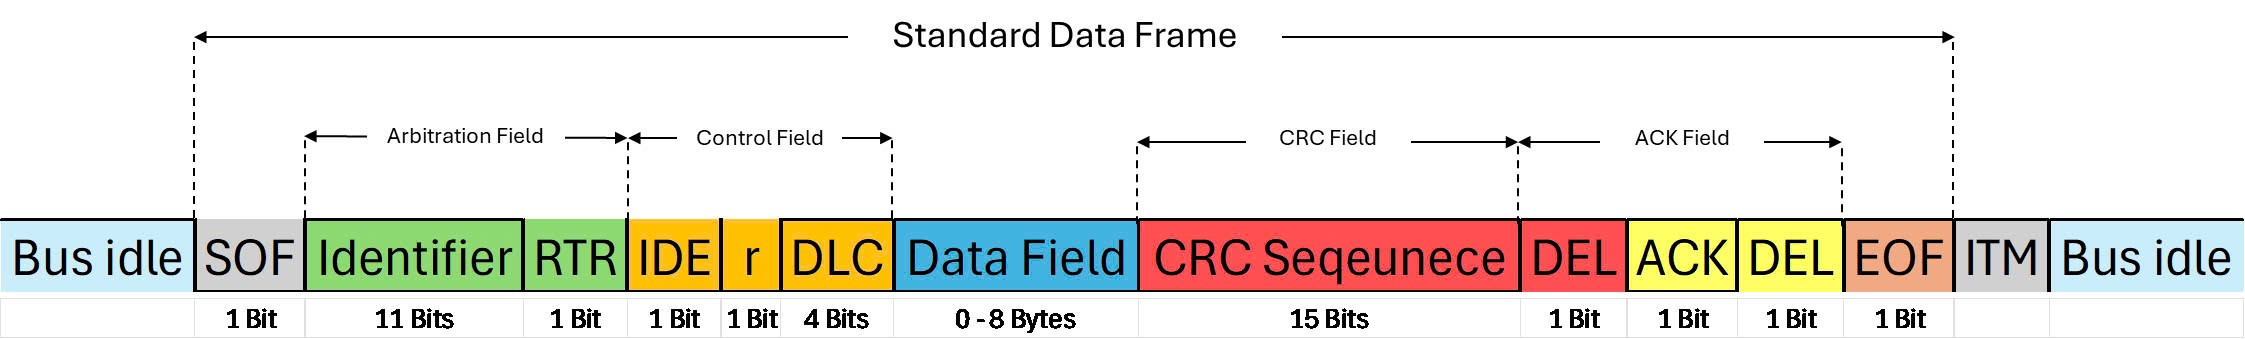
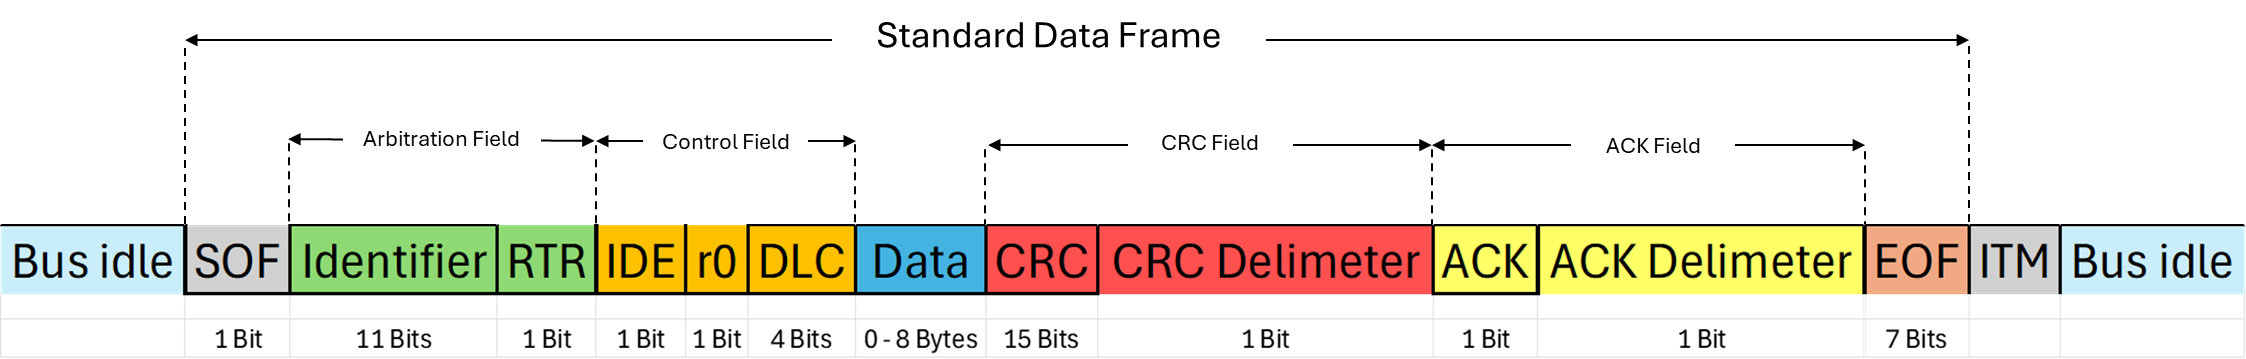
Update content Data Frame.

diff --git a/README.md b/README.md
@@ -307,7 +307,7 @@ CAN bus thường được xoắn 2 dây vào nhau để triệt tiêu nhiễu.
 
 Bus CAN định nghĩa hai trạng thái điện áp là: Dominant và Recessive. Tương đương với bit 0 và 1 của các giao thức khác. 
 
-Hai trạng thái này sẽ được xử lý bởi Transceiver của Node. 
+Hai trạng thái này sẽ được xử lý bởi Transceiver. 
 
 Theo tốc độ truyền nhận CAN, ta chia làm hai loại: CAN low speed và CAN high speed. Tương ứng với các giá trị điện áp khác nhau.
 
@@ -411,23 +411,27 @@ Có hai phiên bản Data Frame: Khung tiêu chuẩn (CAN 2.0A), khung mở rộ
 
  - **IDE - Identifier Extension**: Phân biệt khung tiêu chuẩn (=Dominant) và khung mở rộng (=Recessive).
 
- - **r**: Mặc định là Recessive, bit này không quan trọng.
+ - **r0**: Mặc định là Dominant, hiện tại không có chức năng cụ thể, không quan trọng.
 
  - **DLC - Data Length Code**: Giá trị (0 - 8 theo Binary) ứng với số byte dữ liệu.
 
  - **Data**: Dữ liệu.
 
- - **CRC Sequenece - Cyclic Redundancy Check**: 
+ - **CRC - Cyclic Redundancy Check**: Kiểm tra lỗi thông điệp.
 
- - **DEL - CRC Delimiter**: Luôn là Recessive.
+ - **DEL - CRC Delimiter**: Luôn là Recessive, dùng để ngăn cách.
 
- - **ACK - Acknowledge**:
+ - **ACK - Acknowledge**: Để node nhận ghi vào sau khi kiểm tra lỗi ở CRC, Không có lỗi = Dominant và có lỗi = Recessive.
 
  - **DEL - ACK Delimiter**: Luôn là Recessive.
 
  - **EOF - End Of Frame**: 7 bits Recessive, kết thúc thông điệp.
 
 **Khung mở rộng:**
+
+<p align="center">
+    <img src="image/can-9.png" alt="alt text" width="800">
+</p>
 
   - **S0F - Start Of Frame**: Luôn có giá trị Dominant, báo hiệu với các node một thông điệp mới đang bắt đầu. 
 
@@ -441,25 +445,21 @@ Có hai phiên bản Data Frame: Khung tiêu chuẩn (CAN 2.0A), khung mở rộ
 
  - **RTR - Remote Transmission Request**: Phân biệt Data Frame (=Dominant) và Remote Frame (=Recessive).
 
- - **r1, r0**: Mặc định là Recessive, bit này không quan trọng.
+ - **r1, r0**: Mặc định là Dominant, hiện tại không có chức năng cụ thể, không quan trọng.
 
  - **DLC - Data Length Code**: Giá trị (0 - 8 theo Binary) ứng với số byte dữ liệu.
 
  - **Data**: Dữ liệu.
 
- - **CRC - Cyclic Redundancy Check**:
+ - **CRC - Cyclic Redundancy Check**: Kiểm tra lỗi thông điệp.
 
- - **CRC Sequence**:
+ - **DEL - CRC Delimiter**: Luôn là Recessive, dùng để ngăn cách.
 
- - **CRC Delimiter**: Luôn là Recessive.
+ - **ACK - Acknowledge**: Để node nhận ghi vào sau khi kiểm tra lỗi ở CRC, Không có lỗi = Dominant và có lỗi = Recessive.
 
- - **ACK Field - Acknowledge Field**:
+ - **DEL - ACK Delimiter**: Luôn là Recessive.
 
- - **ACK Slot**: Độ dài 1 bit, Node truyền dữ liệu sẽ truyền bit này là Recessive. Khi một hoặc nhiều Node nhận chính xác giá trị thông điệp (không có lỗi và đã so sánh CRC Sequence trùng khớp) thì nó sẽ báo lại cho bộ truyền bằng cách truyền Dominant Bit ngay vị trí ACK Slot (tương tự việc kéo SDA trong I2C).
-
- - **ACK Delimiter**: Độ dài 1 bit, luôn có giá trị Recessive (1).
-
- - **EOF - End of Frame**: 7 bits Recessive, kết thúc thông điệp.
+ - **EOF - End Of Frame**: 7 bits Recessive, kết thúc thông điệp.
 
 ### Remote Frame
 
